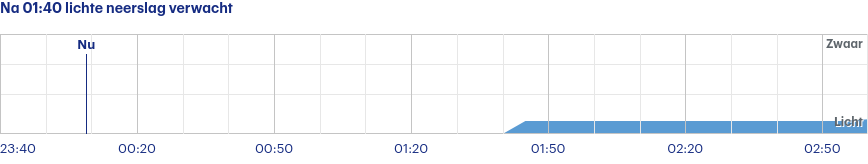
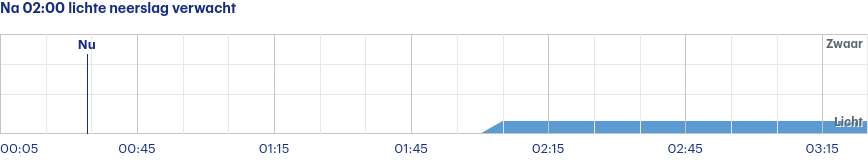
Latest scraping buienradar: Tue Aug  1 22:25:31 UTC 2023

diff --git a/scrapes/buienradar/buienradar-jette-3-uur.md b/scrapes/buienradar/buienradar-jette-3-uur.md
@@ -1,4 +1,4 @@
-Na 01:40 lichte neerslag verwacht
+Na 02:00 lichte neerslag verwacht
 
 ![](buienradar-jette-3-uur.png)
 
